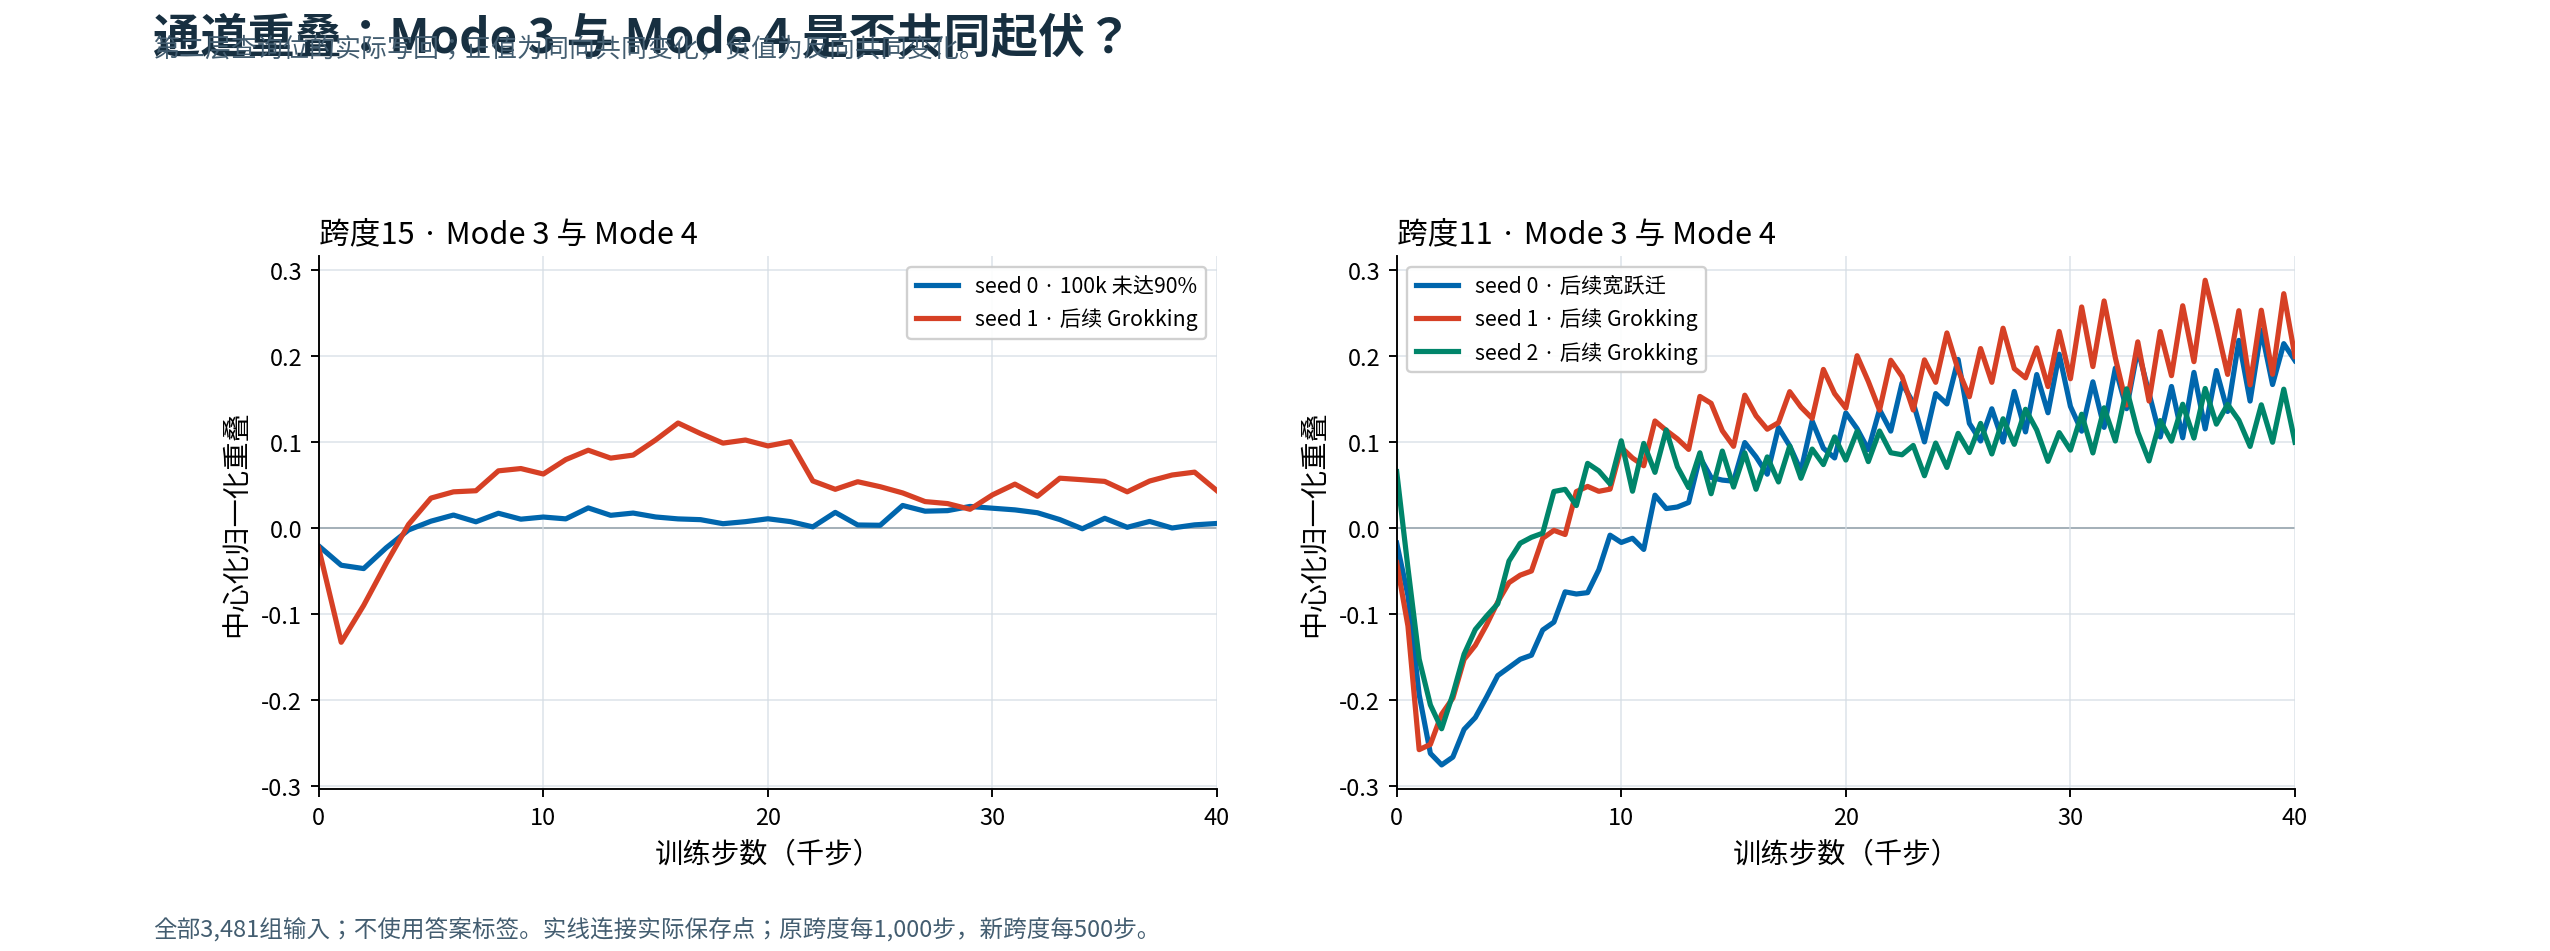
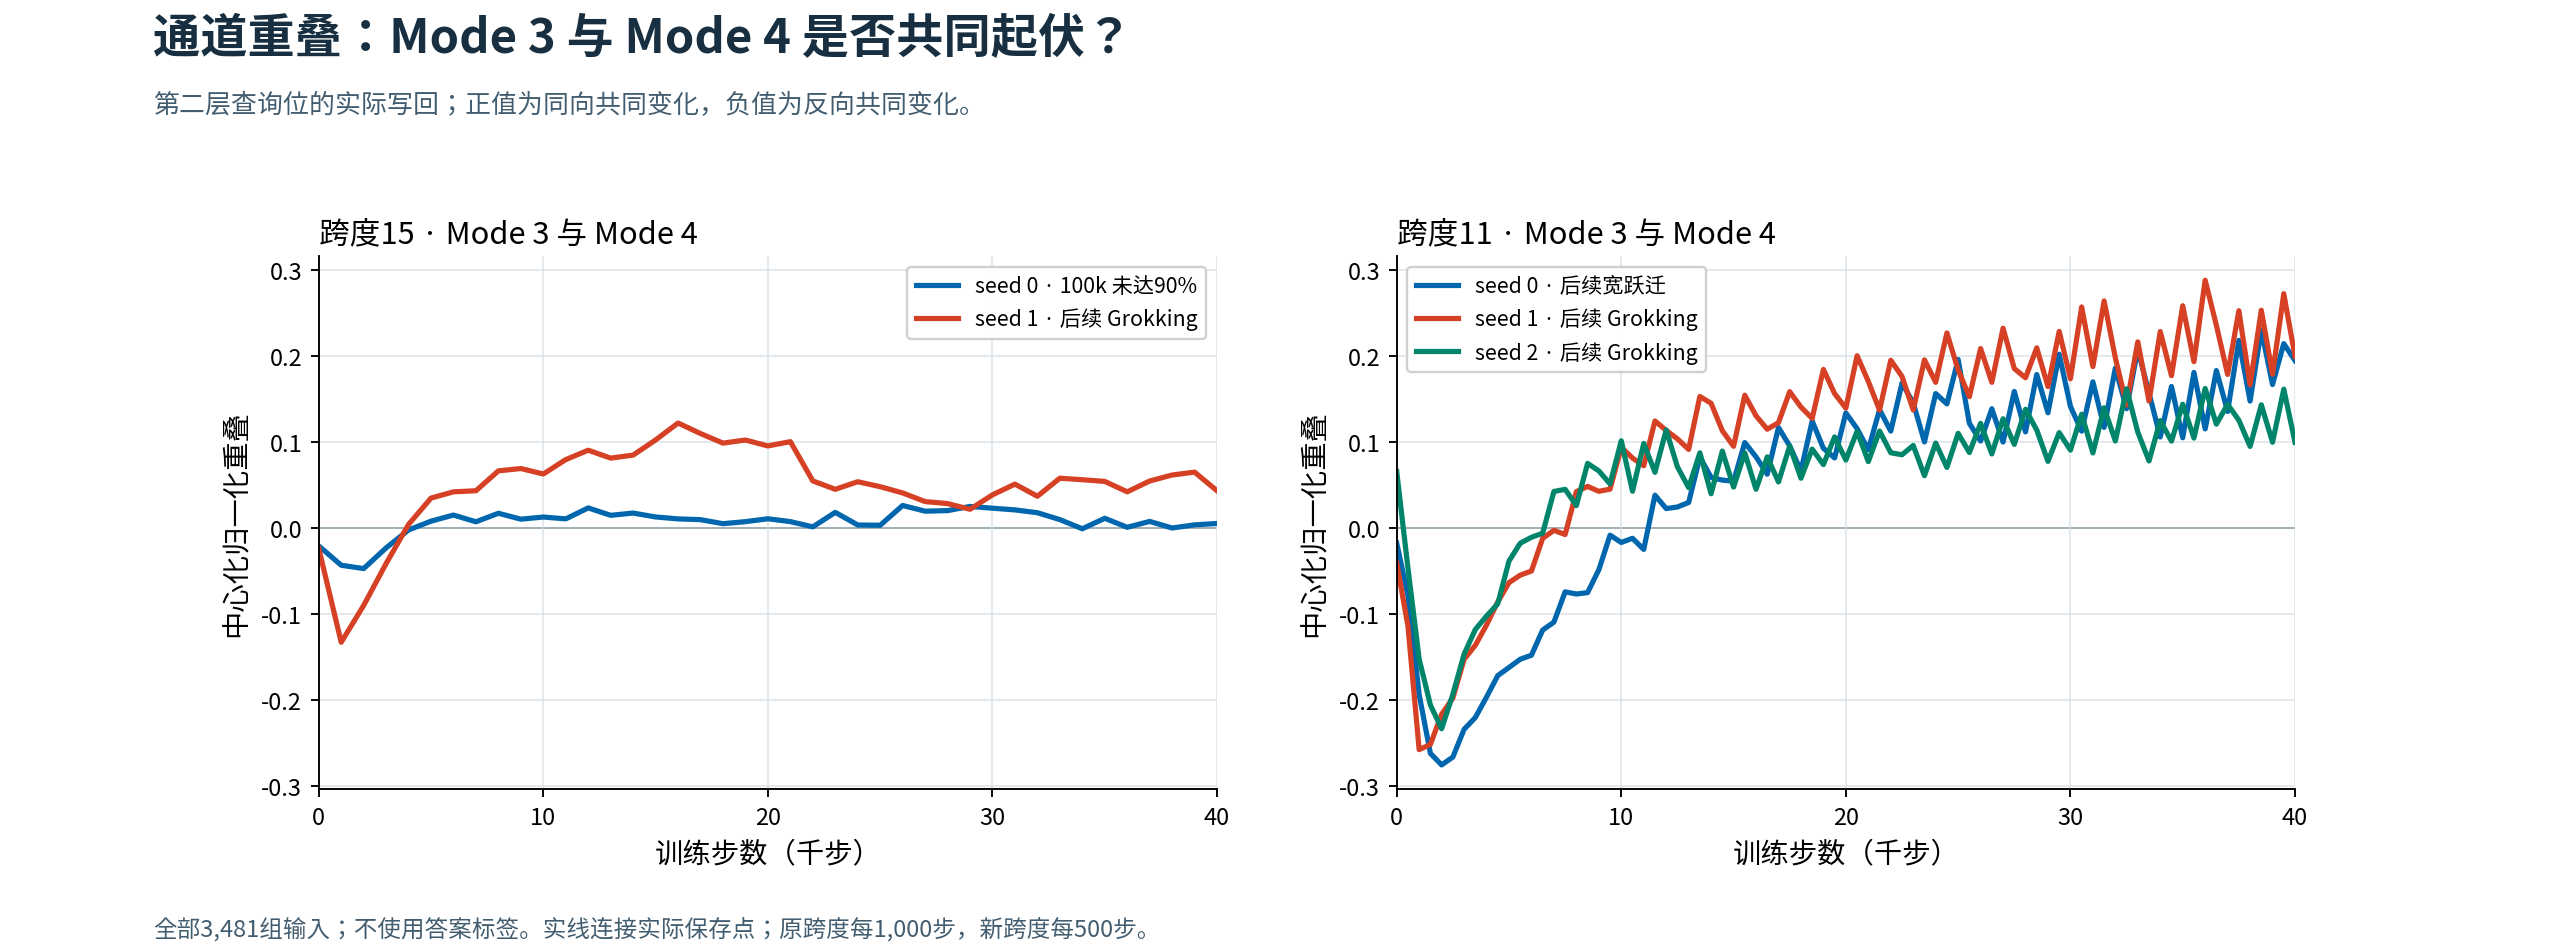
Fix chart header spacing and simplify response labels

Changed region(s): [[0.062, 0.0915, 0.3718, 0.122], [0.062, 0.0305, 0.3718, 0.061]]

diff --git a/experiments/label_free_physics_20261116/plot.py b/experiments/label_free_physics_20261116/plot.py
@@ -47,7 +47,7 @@ def shared_limits(axes):
 
 def finish(fig,name,title,subtitle):
     fig.suptitle(title,x=.06,y=.985,ha='left',fontsize=20,fontweight='bold',color='#172F40')
-    fig.text(.06,.94,subtitle,ha='left',fontsize=11,color='#435D70')
+    fig.text(.06,.985-.46/fig.get_size_inches()[1],subtitle,ha='left',va='top',fontsize=11,color='#435D70')
     fig.text(.06,.015,'全部3,481组输入；不使用答案标签。实线连接实际保存点；原跨度每1,000步，新跨度每500步。',fontsize=10,color='#435D70')
     fig.savefig(HERE/'results'/name,facecolor='white');plt.close(fig)
 
@@ -67,7 +67,7 @@ def make_plots(data):
     fig,axes=plt.subplots(2,2,figsize=(15,9));fig.subplots_adjust(top=.84,bottom=.1,hspace=.48,wspace=.2)
     for i,(metric,label) in enumerate([('chi_mean','逐输入响应范数的平均'),('chi_rms','逐输入响应范数的均方根')]):
         for j,span in enumerate(spans):
-            panel(axes[i,j],data,metric,span);axes[i,j].set_ylabel('Jacobian Frobenius 范数')
+            panel(axes[i,j],data,metric,span);axes[i,j].set_ylabel('输入响应强度')
             axes[i,j].set_title('跨度%d · %s'%(span,label),loc='left')
         shared_limits(axes[i])
     finish(fig,'02_输入到查询的线性响应.png','线性响应：输入端的微小变化能传多强？','精确64×64响应矩阵，保留两层LayerNorm导数；第一层端到端响应因几何不可达而严格为0。')
